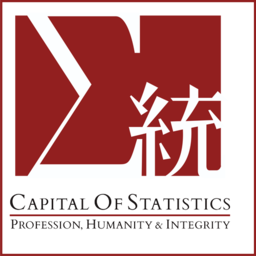
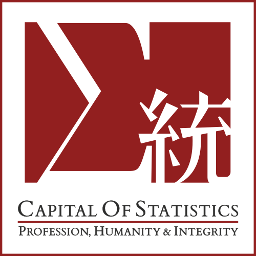
格式修改 (#559)
* update logos

* fix image size

* spaces

* Open Sans fonts

Changed region(s): [[0.0, 0.0312, 0.9375, 0.9688]]

diff --git a/static/css/fonts.css b/static/css/fonts.css
@@ -1,4 +1,12 @@
 @font-face {
+  font-family: 'Open Sans';
+  font-style: normal;
+  font-weight: 400;
+  src: local('Open Sans'), local('OpenSans-Regular'),
+       url('../fonts/open-sans-latin-regular.woff2') format('woff2'),
+       url('../fonts/open-sans-latin-regular.woff') format('woff');
+}
+@font-face {
   font-family: 'Open Sans Condensed';
   font-style: normal;
   font-weight: 300;

diff --git a/content/books.md b/content/books.md
@@ -8,8 +8,8 @@ menu: main
 
 <style>
 img{
-width: 150px;
-height: 200px
+  max-width: 150px;
+  max-height: 200px
 }
 </style>
 
@@ -19,8 +19,9 @@ height: 200px
 
 读者可以点击下面每本书的链接进入该书的的页面，下载随书代码，我们还会不定期发布图书的勘误，也欢迎读者留言提问。
 
-|![R-in-Action](https://cos.name/wp-content/uploads/2013/03/r-in-action-small.jpg) [《R语言实战》](/2013/03/r-in-action/ "《R语言实战》")                                                                                                           |![ggplot2](https://cos.name/wp-content/uploads/2013/05/ggplot2-212x300.jpg) [《ggplot2：数据分析与图形艺术》](/2013/05/ggplot2/ "《ggplot2：数据分析与图形艺术》")                                      |![art-of-r-programming](https://cos.name/wp-content/uploads/2013/05/art-of-r-small.jpg) [《R语言编程艺术》](/2013/05/the-art-r-programming/ "《R语言编程艺术》")                        |
+| | | |
 |:--------------------------------------------------------------------------------------------------------------------------------------------------------------------------------------------------------------------------------------------------:|:-------------------------------------------------------------------------------------------------------------------------------------------------------------------------------------------------------:|:---------------------------------------------------------------------------------------------------------------------------------------------------------------------------------------:|
+|![R-in-Action](https://cos.name/wp-content/uploads/2013/03/r-in-action-small.jpg) [《R语言实战》](/2013/03/r-in-action/ "《R语言实战》")                                                                                                           |![ggplot2](https://cos.name/wp-content/uploads/2013/05/ggplot2-212x300.jpg) [《ggplot2：数据分析与图形艺术》](/2013/05/ggplot2/ "《ggplot2：数据分析与图形艺术》")                                      |![art-of-r-programming](https://cos.name/wp-content/uploads/2013/05/art-of-r-small.jpg) [《R语言编程艺术》](/2013/05/the-art-r-programming/ "《R语言编程艺术》")                        |
 |![Dynamic-Documents-with-R-and-knitr](http://images.tandf.co.uk/common/jackets/crclarge/978148220/9781482203530.jpg) [Dynamic Documents with R and knitr](http://www.crcpress.com/product/isbn/9781482203530 "Dynamic Documents with R and knitr") |![R_in_a_nutshell](https://cos.name/wp-content/uploads/2013/03/R_in_a_nutshell.jpg)[《R语言核心技术手册》](http://www.oreilly.com.cn/index.php?func=book&isbn=978-7-121-23786-7)                        |![R_graphics_cookbook](https://cos.name/wp-content/uploads/2013/03/R_graphics_cookbook.png) [《R数据可视化手册》](http://www.oreilly.com.cn/index.php?func=book&isbn=978-7-115-34227-0) |
 |![R_data_science](https://cos.name/wp-content/uploads/2013/03/R_data_science.jpg) [《数据科学中的R语言》](/2015/07/years-as-a-data-scientist/ "Dynamic Documents with R and knitr")                                                                |[ ![rcpp0](https://cos.name/wp-content/uploads/2013/03/rcpp0.jpg)](https://cos.name/wp-content/uploads/2013/03/rcpp0.jpg) [《Rcpp:R与C++的无缝整合》](/2016/01/seamless-r-and-c-integration-with-rcpp/) |  
 

diff --git a/content/chinar.md b/content/chinar.md
@@ -1,12 +1,11 @@
 ---
-title: R 会议
+title: R会议
 description: R语言会议相关规则
 date: '2009-10-26T05:04:42+00:00'
 author: COS管理员
 weight: 4
 menu: main
 ---
-
 
 # 中国R语言会议运行机制
 

diff --git a/content/post/2017-05-04-Bandit-and-recommender-systems.md b/content/post/2017-05-04-Bandit-and-recommender-systems.md
@@ -5,6 +5,7 @@ date: '2017-05-04'
 tags: [推荐系统]
 slug: Bandit-and-recommender-systems
 ---
+
 注:本文首发于《程序员》杂志
 
 # 0.导语
